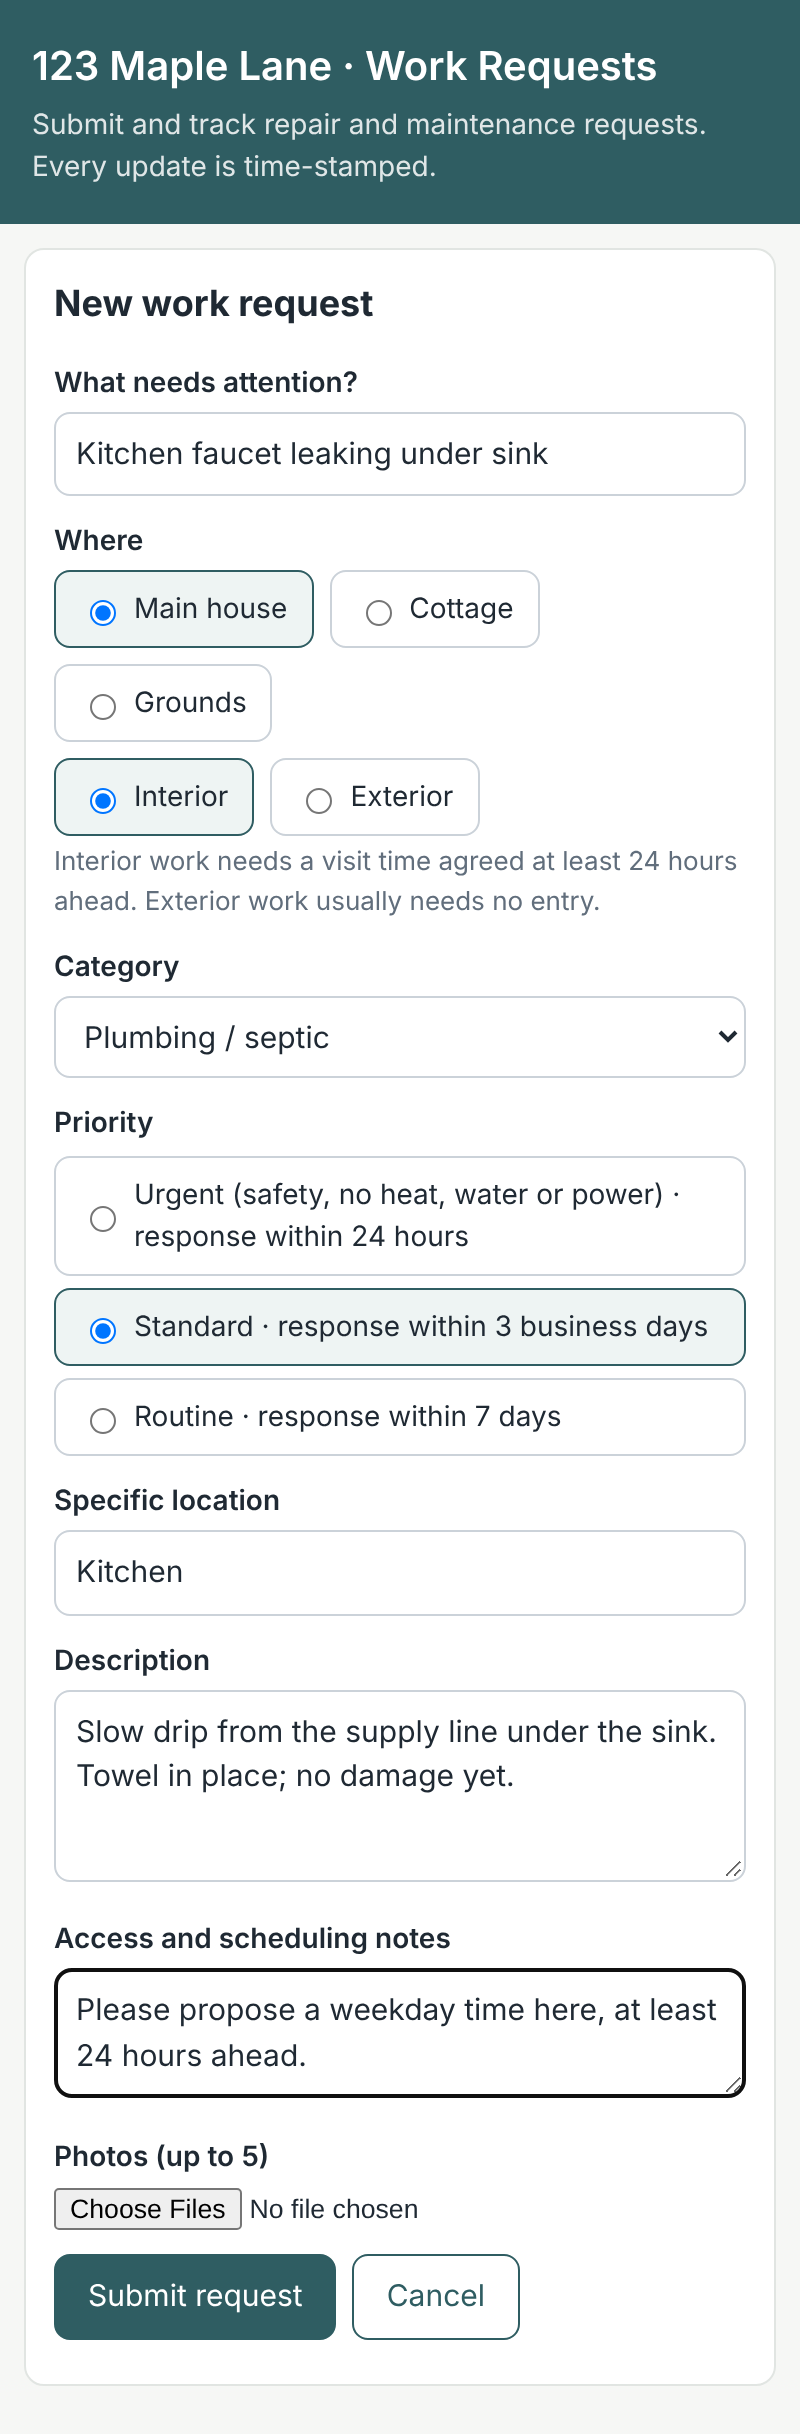
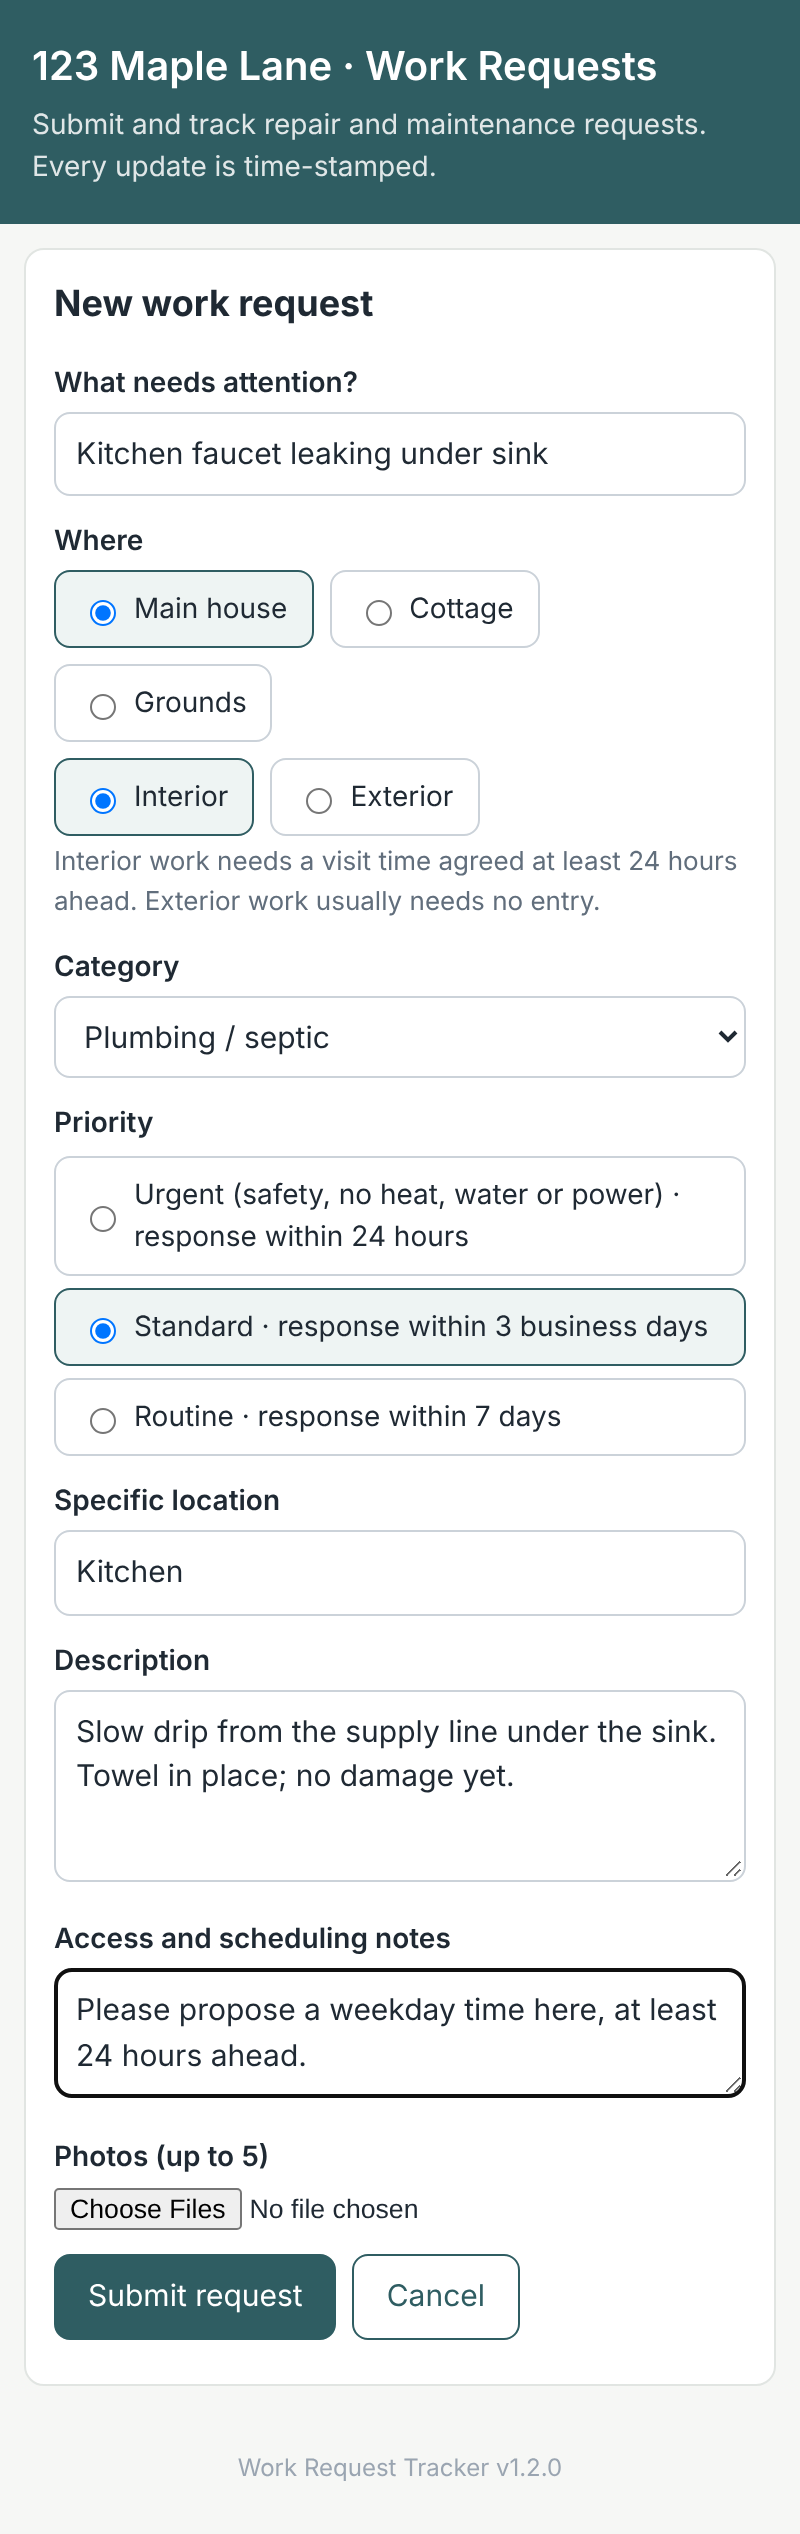
v1.2.0: inline version in every file and on pages, dialogs and emails
Claude-Session: https://claude.ai/code/session_017VoKnycgN8XbwmDMcNHVKc

diff --git a/Landlord.html b/Landlord.html
@@ -1,4 +1,5 @@
 <!DOCTYPE html>
+<!-- Work Request Tracker v1.2.0 -->
 <html>
 <head>
   <base target="_top">
@@ -12,6 +13,7 @@
   <main>
     <div id="app"><p class="muted">Loading…</p></div>
   </main>
+  <footer style="text-align:center;color:#9aa5b1;font-size:12px;padding:8px 0 24px">Work Request Tracker v<?= version ?></footer>
 
   <?!= include('Shared') ?>
   <script>

diff --git a/Tenant.html b/Tenant.html
@@ -1,4 +1,5 @@
 <!DOCTYPE html>
+<!-- Work Request Tracker v1.2.0 -->
 <html>
 <head>
   <base target="_top">
@@ -80,6 +81,7 @@
       <div id="detail"></div>
     </section>
   </main>
+  <footer style="text-align:center;color:#9aa5b1;font-size:12px;padding:8px 0 24px">Work Request Tracker v<?= version ?></footer>
 
   <?!= include('Shared') ?>
   <script>

diff --git a/Shared.html b/Shared.html
@@ -1,3 +1,4 @@
+<!-- Work Request Tracker v1.2.0 -->
 <script>
   // Shared client helpers (no data is rendered as HTML; everything uses textContent).
   function el(tag, attrs, children) {

diff --git a/Styles.html b/Styles.html
@@ -1,3 +1,4 @@
+<!-- Work Request Tracker v1.2.0 -->
 <style>
   :root {
     --bg: #f6f7f5; --card: #ffffff; --ink: #1f2933; --muted: #616e7c; --line: #e1e5e2;

diff --git a/docs/SETUP.md b/docs/SETUP.md
@@ -1,5 +1,7 @@
 # Setup and Testing Guide
 
+*For Work Request Tracker v1.2.0. Every file carries its version in its first lines, and every page, dialog and email shows it, so you can confirm the live version matches the files you pasted.*
+
 This guide takes you from nothing to a working, tested tracker. Each step lists **what to do**, **what you should see**, and **what to check** before moving on. Plan on 20 to 30 minutes, including testing.
 
 **You'll need:** a Google account (personal Gmail or Google Workspace), a computer with a web browser, and the files from this repository.
@@ -99,7 +101,7 @@ This guide takes you from nothing to a working, tested tracker. Each step lists 
 3. In the **Execution log**, copy the line that starts "Your tenant link."
 4. Open it in your browser and **bookmark it.**
 
-**You should see:** a page headed "*Your property* · Work Requests," with **Open** and **Closed** tabs, a **+ New request** button, and "No open requests."
+**You should see:** a page headed "*Your property* · Work Requests," with the version (for example `Work Request Tracker v1.2.0`) at the bottom, with **Open** and **Closed** tabs, a **+ New request** button, and "No open requests."
 
 **Check:** the tenant link works like a password. Don't share it. If you open the bare URL without `?k=...`, you should see "This link is not valid," which confirms the protection is working.
 
@@ -205,7 +207,7 @@ On the tenant page, open WR-0002 and click **Withdraw request**.
 
 | Symptom | Likely cause | Fix |
 | --- | --- | --- |
-| Page loads, but the dropdown is empty or buttons do nothing (browser console shows "el is not defined") | `Shared.html` is missing, misnamed or has the wrong contents | Confirm a file named exactly `Shared.html` starts with `<script>` and contains `function el(`; save and publish a new version |
+| Page loads, but the dropdown is empty or buttons do nothing (browser console shows "el is not defined") | `Shared.html` is missing, misnamed or has the wrong contents | Confirm a file named exactly `Shared.html` contains `<script>` and `function el(`; save and publish a new version |
 | Only "Sheet1" at the bottom of the Sheet | Setup didn't run or failed | Run **setup** again and read the Execution log |
 | "Missing tab..." error | Tabs renamed or deleted | Restore the original tab names, or run **setup** |
 | Permission screen says "**all** of your Google Drive files" | Old manifest | Replace `appsscript.json`, then run setup again |
@@ -214,7 +216,7 @@ On the tenant page, open WR-0002 and click **Withdraw request**.
 | "This link is not valid" on your own link | Missing or altered `?k=` key | Run **showLinks** and use that exact link |
 | No emails arriving | Email typo, or spam folder | Check Config, then spam; mark as "Not spam" |
 | Landlord can't open photos | Workspace restricts link sharing | Photos are still attached to the first email; or allow link sharing for the folder |
-| Page shows old behavior after a code change | Deployment not updated | **Deploy > Manage deployments > Edit > New version** |
+| Page shows old behavior after a code change (version at the bottom of the page is the old number) | Deployment not updated | **Deploy > Manage deployments > Edit > New version** |
 | "Exceeded maximum execution time" or email quota error | Google's daily limits | Wait 24 hours. Gmail allows about 100 emails a day, Workspace about 1,500 |
 
 ## Updating the code later

diff --git a/CHANGELOG.md b/CHANGELOG.md
@@ -1,5 +1,22 @@
 # Changelog
 
+Each file carries its version inline (a comment at the top, and `APP_VERSION` in `Code.gs`). The version also shows at the bottom of every page, in the menu dialogs and in every email, so you can confirm which version is live. `appsscript.json` can't hold comments; it changes rarely and is noted below when it does.
+
+## 1.2.0 (2026-11-16)
+
+- Required **Where** choice (Main house, Cottage, Grounds), configurable on the Config tab (BUILDINGS)
+- Required **Interior / Exterior** choice; landlord scheduling guidance adapts to it
+- Fix: form choices are rendered on the server, so the category list works even if a helper file fails to load
+- Version number inline in every file and shown on pages, dialogs and emails
+- Troubleshooting entry for a missing or misnamed `Shared.html`
+
+## 1.1.0 (2026-11-16)
+
+- Least-privilege photo storage: `drive.file` permission only (manifest changed)
+- **Work Requests** menu in the Sheet: set up, show links, reminders, all in one click
+- Links shown in a dialog with Copy and Open buttons (manifest changed: `script.container.ui`)
+- Complete setup and testing guide (`docs/SETUP.md`) and UX notes log
+
 ## 1.0.0 (2026-11-16)
 
 First release.
